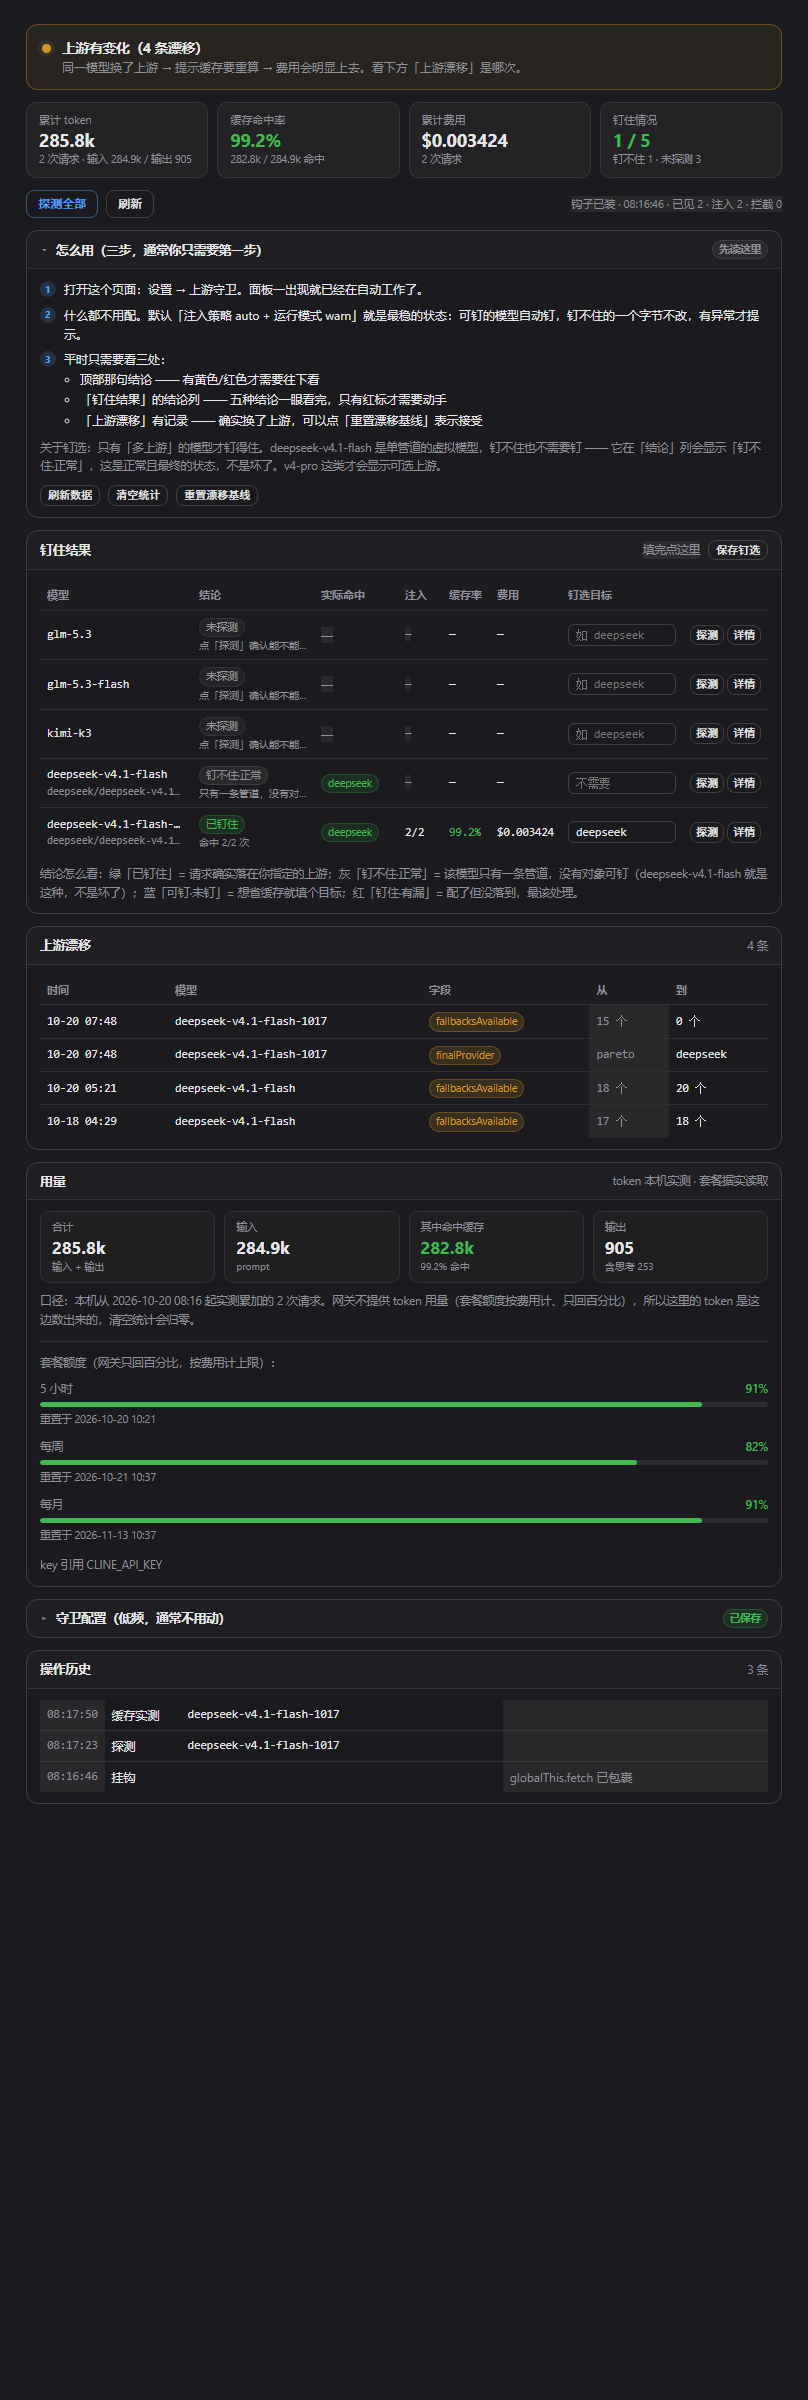
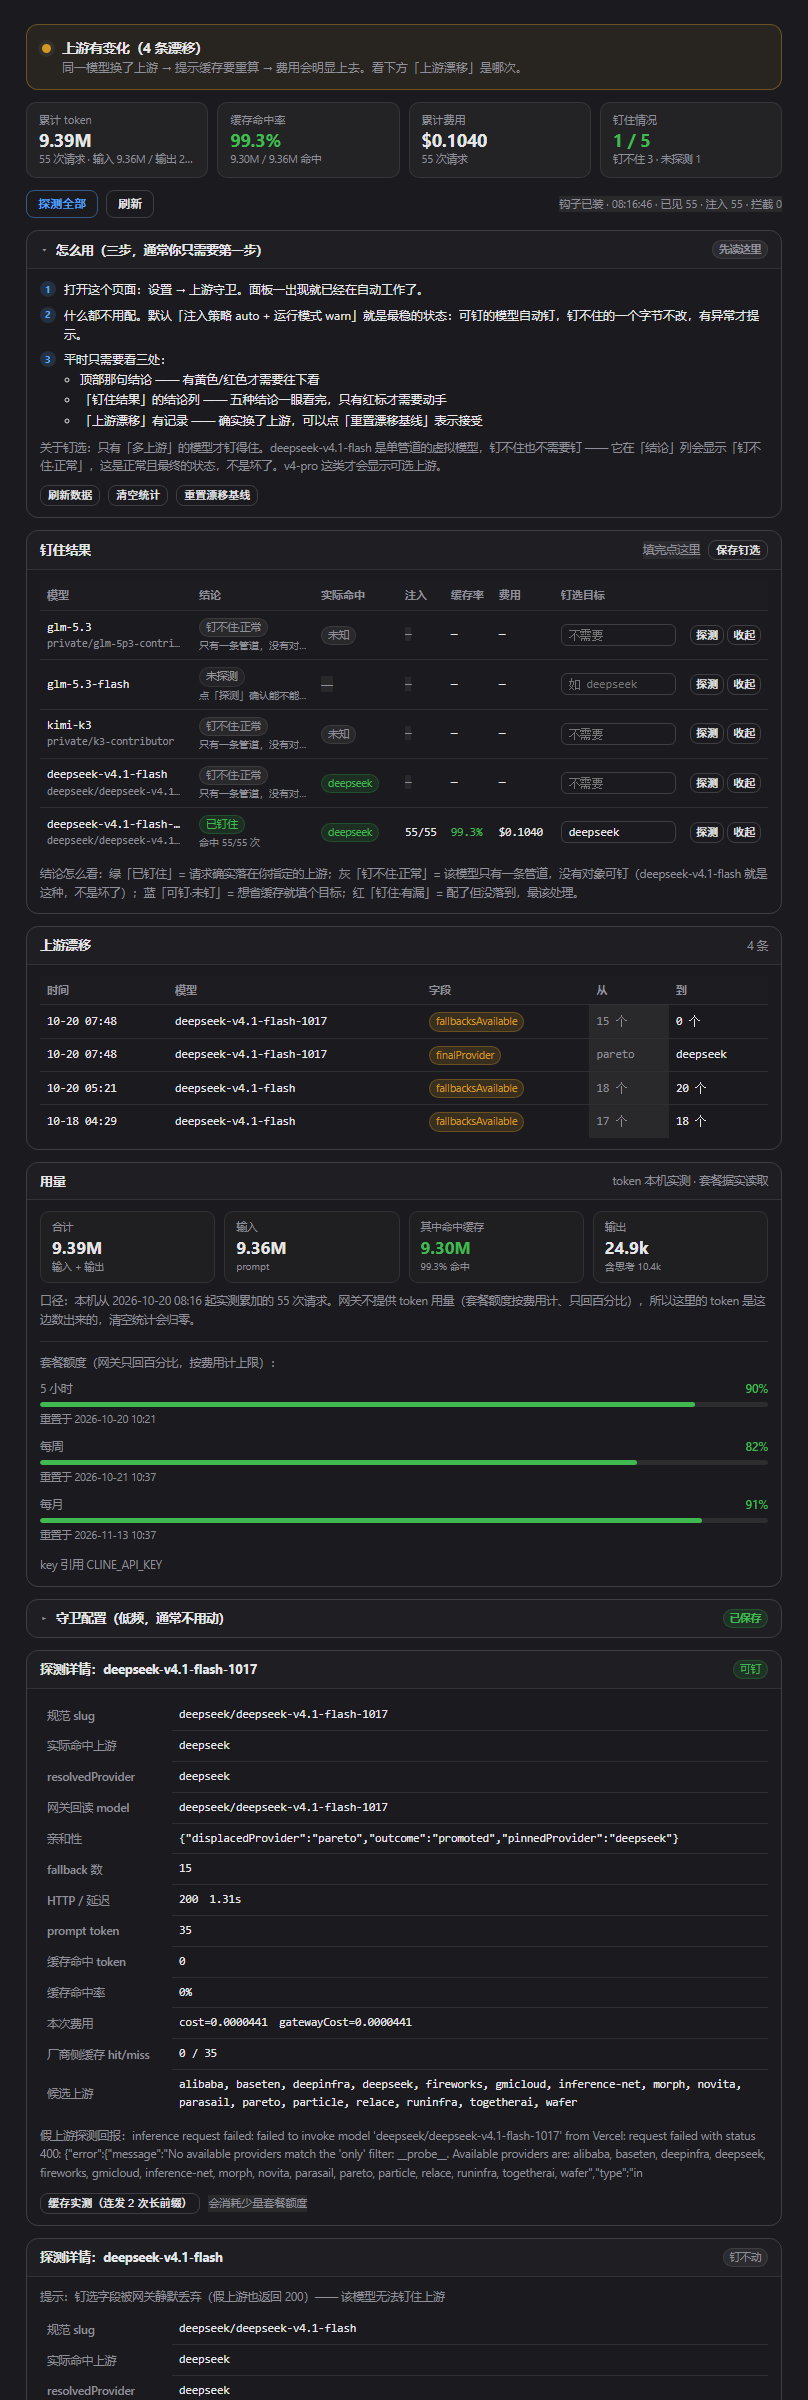
fix: 缓存实测走真实注入通道 + 详情卡长值不再被裁 + 上游选择实测文档
- guard.cache 原来用 rawFetch（绕过守卫），钉谁测出来都是默认路由 —— 等于按钮在撒谎；
  改为走被包裹的 fetch，「缓存实测」才真的复现生产行为
- 详情卡 table-layout:fixed + overflow-wrap：16 个上游的列表与整段探测回报完整换行显示
- docs/upstream-selection.md：16 个上游的缓存命中率/延迟实测与推荐（parasail/particle 0% 别钉）

diff --git a/dist/native/client.js b/dist/native/client.js
@@ -61,7 +61,7 @@ window.__ModuleLoader__.load({
             '.cpg-wrap{display:flex;flex-direction:column;gap:12px;padding:2px 2px 28px;font-size:13px;line-height:1.5}',
             '.cpg-dim{color:var(--dsw-alias-label-secondary,#8b8b8b)}',
             '.cpg-mono{font-family:ui-monospace,SFMono-Regular,Menlo,Consolas,monospace;font-size:11.5px;font-variant-numeric:tabular-nums}',
-            '.cpg-err{color:#f85149;font-size:12px;padding:8px 12px;border-radius:8px;background:rgba(248,81,73,.1);border:1px solid rgba(248,81,73,.35)}',
+            '.cpg-err{color:#f85149;font-size:12px;padding:8px 12px;border-radius:8px;background:rgba(248,81,73,.1);border:1px solid rgba(248,81,73,.35);word-break:break-word;overflow-wrap:anywhere}',
       
             // ── 结论条 ──
             '.cpg-hero{display:flex;gap:11px;align-items:flex-start;padding:13px 15px;border-radius:12px;border:1px solid var(--dsw-alias-border-secondary,rgba(128,128,128,.28))}',
@@ -98,7 +98,7 @@ window.__ModuleLoader__.load({
             '.cpg-sec-h{display:flex;align-items:center;gap:8px;padding:9px 13px;background:rgba(128,128,128,.045);border-bottom:1px solid var(--dsw-alias-border-tertiary,rgba(128,128,128,.18))}',
             '.cpg-sec-t{font-size:12.5px;font-weight:650;letter-spacing:.01em}',
             '.cpg-sec-m{margin-left:auto;display:flex;align-items:center;gap:7px;font-size:11.5px;color:var(--dsw-alias-label-secondary,#8b8b8b)}',
-            '.cpg-sec-b{padding:11px 13px}',
+            '.cpg-sec-b{padding:11px 13px;overflow-x:auto}',
             '.cpg-sec-b-flush{padding:0}',
             '.cpg-note{font-size:11.5px;color:var(--dsw-alias-label-secondary,#8b8b8b);line-height:1.6}',
             '.cpg-note-b{margin-top:9px}',
@@ -110,6 +110,10 @@ window.__ModuleLoader__.load({
             '.cpg-tbl tbody tr+tr td{border-top:1px solid var(--dsw-alias-border-tertiary,rgba(128,128,128,.13))}',
             '.cpg-tbl tbody tr:hover td{background:rgba(128,128,128,.035)}',
             '.cpg-tbl-kv th{width:132px;font-weight:500;color:var(--dsw-alias-label-secondary,#8b8b8b);font-size:11.5px}',
+            // 详情卡的长值（16 个上游的列表、整段报错 JSON）必须换行，不能把表格撑出容器再被裁掉。
+            // table-layout:fixed + overflow-wrap:anywhere 是这里的关键：自动列宽会按最长的不可断行片段撑开。
+            '.cpg-tbl-kv{table-layout:fixed;width:100%}',
+            '.cpg-tbl-kv td{white-space:normal;word-break:break-word;overflow-wrap:anywhere;font-size:11.5px;line-height:1.55}',
             '.cpg-sub{font-size:10.5px;color:var(--dsw-alias-label-secondary,#8b8b8b);margin-top:1px}',
             '.cpg-sub-warn{color:#d29922}',
             // 结论列的说明：单行省略，否则一个长注释把整行撑到 4 行高（实测过）

diff --git a/src/dynamic/client.js b/src/dynamic/client.js
@@ -21,7 +21,7 @@ return {
       '.cpg-wrap{display:flex;flex-direction:column;gap:12px;padding:2px 2px 28px;font-size:13px;line-height:1.5}',
       '.cpg-dim{color:var(--dsw-alias-label-secondary,#8b8b8b)}',
       '.cpg-mono{font-family:ui-monospace,SFMono-Regular,Menlo,Consolas,monospace;font-size:11.5px;font-variant-numeric:tabular-nums}',
-      '.cpg-err{color:#f85149;font-size:12px;padding:8px 12px;border-radius:8px;background:rgba(248,81,73,.1);border:1px solid rgba(248,81,73,.35)}',
+      '.cpg-err{color:#f85149;font-size:12px;padding:8px 12px;border-radius:8px;background:rgba(248,81,73,.1);border:1px solid rgba(248,81,73,.35);word-break:break-word;overflow-wrap:anywhere}',
 
       // ── 结论条 ──
       '.cpg-hero{display:flex;gap:11px;align-items:flex-start;padding:13px 15px;border-radius:12px;border:1px solid var(--dsw-alias-border-secondary,rgba(128,128,128,.28))}',
@@ -58,7 +58,7 @@ return {
       '.cpg-sec-h{display:flex;align-items:center;gap:8px;padding:9px 13px;background:rgba(128,128,128,.045);border-bottom:1px solid var(--dsw-alias-border-tertiary,rgba(128,128,128,.18))}',
       '.cpg-sec-t{font-size:12.5px;font-weight:650;letter-spacing:.01em}',
       '.cpg-sec-m{margin-left:auto;display:flex;align-items:center;gap:7px;font-size:11.5px;color:var(--dsw-alias-label-secondary,#8b8b8b)}',
-      '.cpg-sec-b{padding:11px 13px}',
+      '.cpg-sec-b{padding:11px 13px;overflow-x:auto}',
       '.cpg-sec-b-flush{padding:0}',
       '.cpg-note{font-size:11.5px;color:var(--dsw-alias-label-secondary,#8b8b8b);line-height:1.6}',
       '.cpg-note-b{margin-top:9px}',
@@ -70,6 +70,10 @@ return {
       '.cpg-tbl tbody tr+tr td{border-top:1px solid var(--dsw-alias-border-tertiary,rgba(128,128,128,.13))}',
       '.cpg-tbl tbody tr:hover td{background:rgba(128,128,128,.035)}',
       '.cpg-tbl-kv th{width:132px;font-weight:500;color:var(--dsw-alias-label-secondary,#8b8b8b);font-size:11.5px}',
+      // 详情卡的长值（16 个上游的列表、整段报错 JSON）必须换行，不能把表格撑出容器再被裁掉。
+      // table-layout:fixed + overflow-wrap:anywhere 是这里的关键：自动列宽会按最长的不可断行片段撑开。
+      '.cpg-tbl-kv{table-layout:fixed;width:100%}',
+      '.cpg-tbl-kv td{white-space:normal;word-break:break-word;overflow-wrap:anywhere;font-size:11.5px;line-height:1.55}',
       '.cpg-sub{font-size:10.5px;color:var(--dsw-alias-label-secondary,#8b8b8b);margin-top:1px}',
       '.cpg-sub-warn{color:#d29922}',
       // 结论列的说明：单行省略，否则一个长注释把整行撑到 4 行高（实测过）

diff --git a/dist/native/index.js b/dist/native/index.js
@@ -193,13 +193,19 @@ function createPlugin(harness) {
         return value
       }
   
-      // ── 网关调用（探测用，走原始 fetch，不经过守卫）──────────────────────────
-      async function callGateway(key, body) {
+      // ── 网关调用 ────────────────────────────────────────────────────────────
+      // useHook=false（默认）：走原始 fetch，不经过守卫。探测可钉性必须这样——它自己要在
+      //   请求体里塞 only:['__probe__']，被守卫再包一层就测不出真相。
+      // useHook=true：走被守卫包裹的 fetch，「缓存实测」用这条，才能真实复现
+      //   「钉选会不会被注入、最终落到哪个上游」。曾经这里也走 rawFetch，导致缓存实测
+      //   永远测的是网关默认路由，钉谁都一样——那个按钮等于在撒谎。
+      async function callGateway(key, body, useHook) {
         const ctrl = new AbortController()
         const timer = setTimeout(() => ctrl.abort(), PROBE_TIMEOUT_MS)
         const t0 = Date.now()
+        const send = useHook ? globalThis.fetch : rawFetch
         try {
-          const res = await rawFetch(GATEWAY + '/chat/completions', {
+          const res = await send(GATEWAY + '/chat/completions', {
             method: 'POST',
             headers: { Authorization: 'Bearer ' + key, 'Content-Type': 'application/json' },
             body: JSON.stringify(body),
@@ -700,7 +706,7 @@ function createPlugin(harness) {
         ]
         const runs = []
         for (let i = 0; i < n; i++) {
-          const r = await callGateway(key, { model, messages, max_tokens: 64, stream: false })
+          const r = await callGateway(key, { model, messages, max_tokens: 64, stream: false }, true)
           if (r.http !== 200) {
             const { error } = unwrap(r.json)
             runs.push({ round: i + 1, ok: false, http: r.http, ms: r.ms, error: error || ('HTTP ' + r.http) })

diff --git a/src/dynamic/host.js b/src/dynamic/host.js
@@ -174,13 +174,19 @@ return {
       return value
     }
 
-    // ── 网关调用（探测用，走原始 fetch，不经过守卫）──────────────────────────
-    async function callGateway(key, body) {
+    // ── 网关调用 ────────────────────────────────────────────────────────────
+    // useHook=false（默认）：走原始 fetch，不经过守卫。探测可钉性必须这样——它自己要在
+    //   请求体里塞 only:['__probe__']，被守卫再包一层就测不出真相。
+    // useHook=true：走被守卫包裹的 fetch，「缓存实测」用这条，才能真实复现
+    //   「钉选会不会被注入、最终落到哪个上游」。曾经这里也走 rawFetch，导致缓存实测
+    //   永远测的是网关默认路由，钉谁都一样——那个按钮等于在撒谎。
+    async function callGateway(key, body, useHook) {
       const ctrl = new AbortController()
       const timer = setTimeout(() => ctrl.abort(), PROBE_TIMEOUT_MS)
       const t0 = Date.now()
+      const send = useHook ? globalThis.fetch : rawFetch
       try {
-        const res = await rawFetch(GATEWAY + '/chat/completions', {
+        const res = await send(GATEWAY + '/chat/completions', {
           method: 'POST',
           headers: { Authorization: 'Bearer ' + key, 'Content-Type': 'application/json' },
           body: JSON.stringify(body),
@@ -681,7 +687,7 @@ return {
       ]
       const runs = []
       for (let i = 0; i < n; i++) {
-        const r = await callGateway(key, { model, messages, max_tokens: 64, stream: false })
+        const r = await callGateway(key, { model, messages, max_tokens: 64, stream: false }, true)
         if (r.http !== 200) {
           const { error } = unwrap(r.json)
           runs.push({ round: i + 1, ok: false, http: r.http, ms: r.ms, error: error || ('HTTP ' + r.http) })

diff --git a/docs/upstream-selection.md b/docs/upstream-selection.md
@@ -1,0 +1,78 @@
+# 上游怎么选（实测）
+
+钉选的目的只有一个：**让上游别乱切、把提示缓存吃满**。所以选上游的判据非常具体——
+**它到底做不做前缀缓存**。做，钉上去省 20 倍；不做，钉上去等于每次都付全价，比不钉还糟。
+
+下面的数据不是猜的，是 2026-10-20 在本机对网关实测的。
+
+## 测法
+
+同一段固定长前缀（约 18k token）**连发 2 次**，请求体带 `providerOptions.gateway.only = [候选]`：
+
+- 第 2 次的 `usage.prompt_tokens_details.cached_tokens` > 0 ⇒ 该上游做了前缀缓存
+- 命中率 = `cached / prompt`；0% ⇒ 完全不缓存
+- 顺带记录第 2 次耗时
+
+脚本：`_ab2.mjs`（临时文件，不入库；原理就是上面两句，自己写十行也行）。
+
+## 结果（模型 `cline-pass/deepseek-v4.1-flash-1017`）
+
+| 上游 | 缓存命中率 | 第 2 次耗时 | 评价 |
+|---|---|---|---|
+| **togetherai** | 99.6% | **0.74s** | ⭐ 最快且缓存好 |
+| **inference-net** | 99.8% | 0.93s | ⭐ 缓存最好之一、快 |
+| **wafer** | 99.8% | 1.04s | ⭐ 同上 |
+| **runinfra** | 98.9% | 1.03s | 快 |
+| **fireworks** | 99.3% | 1.10s | ⭐ 老牌稳定 |
+| **deepinfra** | 99.8% | 1.28s | ⭐ 缓存最好之一 |
+| **relace** | 98.4% | 1.61s | 可用 |
+| **pareto** | 99.6% | 1.90s | 可用（也是默认路由常驻上游） |
+| **deepseek** | 98.9% | 2.37s | ⭐ **第一方**，见下 |
+| **gmicloud** | 99.6% | 2.54s | 可用，偏慢 |
+| **novita** | 99.6% | 2.57s | 可用，偏慢 |
+| **alibaba** | 98.2% | 2.95s | 最慢 |
+| **parasail** | **0%** | 1.89s | ❌ 不缓存，别钉 |
+| **particle** | **0%** | 1.41s | ❌ 不缓存，别钉 |
+| **baseten** | 失败 | 0.86s | ❌ 该模型当前调不通 |
+| **azure** | 失败 | 0.81s | ❌ 该模型当前调不通 |
+| **morph** | 失败 | 0.83s | ❌ 该模型当前调不通 |
+
+## 推荐
+
+**默认钉 `deepseek`。** 理由不是它最快（它偏慢），而是：
+
+1. **它是模型厂商第一方** —— 第三方转发普遍存在量化（fp8/int4）导致质量下降的可能，
+   这一点我无法从接口上验证，但第一方没有这个风险；
+2. 缓存 98.9%，已经足够，**钉选的主要收益是「稳定」而不是「快」**；
+3. 第一方不会突然从这个池子里消失。
+
+**想要低延迟，换 `togetherai`（0.74s）或 `inference-net` / `wafer`（约 1s、缓存 99.8%）。**
+把延迟从 2.4s 压到 0.8s 是实打实的体验差别，代价是接受第三方转发的质量不确定性。
+
+**绝对不要钉 `parasail` / `particle`。** 它们不缓存 —— 钉上去之后每一次请求都按未命中计费，
+缓存命中率会从 99% 掉到 0%，成本反而比不钉高出十几倍。
+
+**不要钉 `baseten` / `azure` / `morph`**（至少现在）：对 `-1017` 直接返回
+`failed to invoke model`，钉上去的结果是「钉住·有漏」，请求全落在别处。
+
+## 其它模型
+
+上游池不是一个模型通用的，实测：
+
+| 模型 | 可钉？ | 池子大小 |
+|---|---|---|
+| `deepseek-v4.1-flash-1017` | ✔ | 16 |
+| `deepseek-v4-pro` | ✔ | 6（alibaba, azure, baseten, deepinfra, deepseek, novita） |
+| `deepseek-v4.1-flash` | ✘ | 单管道，无对象可钉 |
+| `glm-5.3` / `glm-5.3-flash` / `kimi-k3` | ✘ | 单管道 |
+
+**给 `v4-pro` 钉选时，上面 16 个的结论不适用** —— 它的 6 个候选里
+`azure` / `baseten` 在上面这轮里是失败的，剩下 `alibaba` / `deepinfra` / `deepseek` /
+`novita` 才是有意义的选项。换模型一定要重新测。
+
+## 注意
+
+- 数据是**单次采样**，延迟受当时负载影响，不要把它当 SLA；缓存率比延迟稳，优先信缓存率。
+- 缓存命中需要**前缀完全一致**。真实对话里前缀会变（系统提示、历史消息都在变），
+  所以线上命中率通常低于这里的 99%，这是正常的，不是上游没缓存。
+- 换上游后缓存要**从头预热**，刚切换的那几次命中率会低，别立刻判定「这个上游不行」。

diff --git a/README.md b/README.md
@@ -40,6 +40,25 @@ Cline Pass 上游守卫 for DeepSeek Harness。**注入 + 观测 + 漂移告警*
    「注入」列的 `2/3` 表示 3 次请求里有 2 次真的落在你指定的上游；变成
    **「钉住·有漏」** 则说明配了但没落到，需要看详情。
 
+### 钉哪个上游？（有实测数据）
+
+**关键只有一条：这个上游做不做前缀缓存。** 做，钉上去便宜二十倍；不做（命中率 0%），
+钉上去等于每次全价，**比不钉还糟**。
+
+2026-10-20 对 `deepseek-v4.1-flash-1017` 的 16 个候选实测（同一段 18k 前缀连发两次）：
+
+| 结论 | 上游 |
+|---|---|
+| ⭐ 推荐 | `deepseek`（第一方，98.9%）、`togetherai`（99.6%，**0.74s 最快**）、`fireworks`、`inference-net`、`wafer`、`deepinfra` |
+| 可用 | `alibaba`、`novita`、`parasail`… 见文档 |
+| ❌ 不缓存，别钉 | **`parasail`（0%）、`particle`（0%）** |
+| ❌ 当前调不通 | `baseten`、`azure`、`morph` |
+
+完整数据、测法、以及「为什么默认选第一方」见
+[**docs/upstream-selection.md**](docs/upstream-selection.md)。
+
+> 换模型一定要重测：`deepseek-v4-pro` 只有 6 个候选，且这批结论不适用于它。
+
 ### 面板从上到下是什么
 
 | 区块 | 回答什么 | 平时要不要看 |
